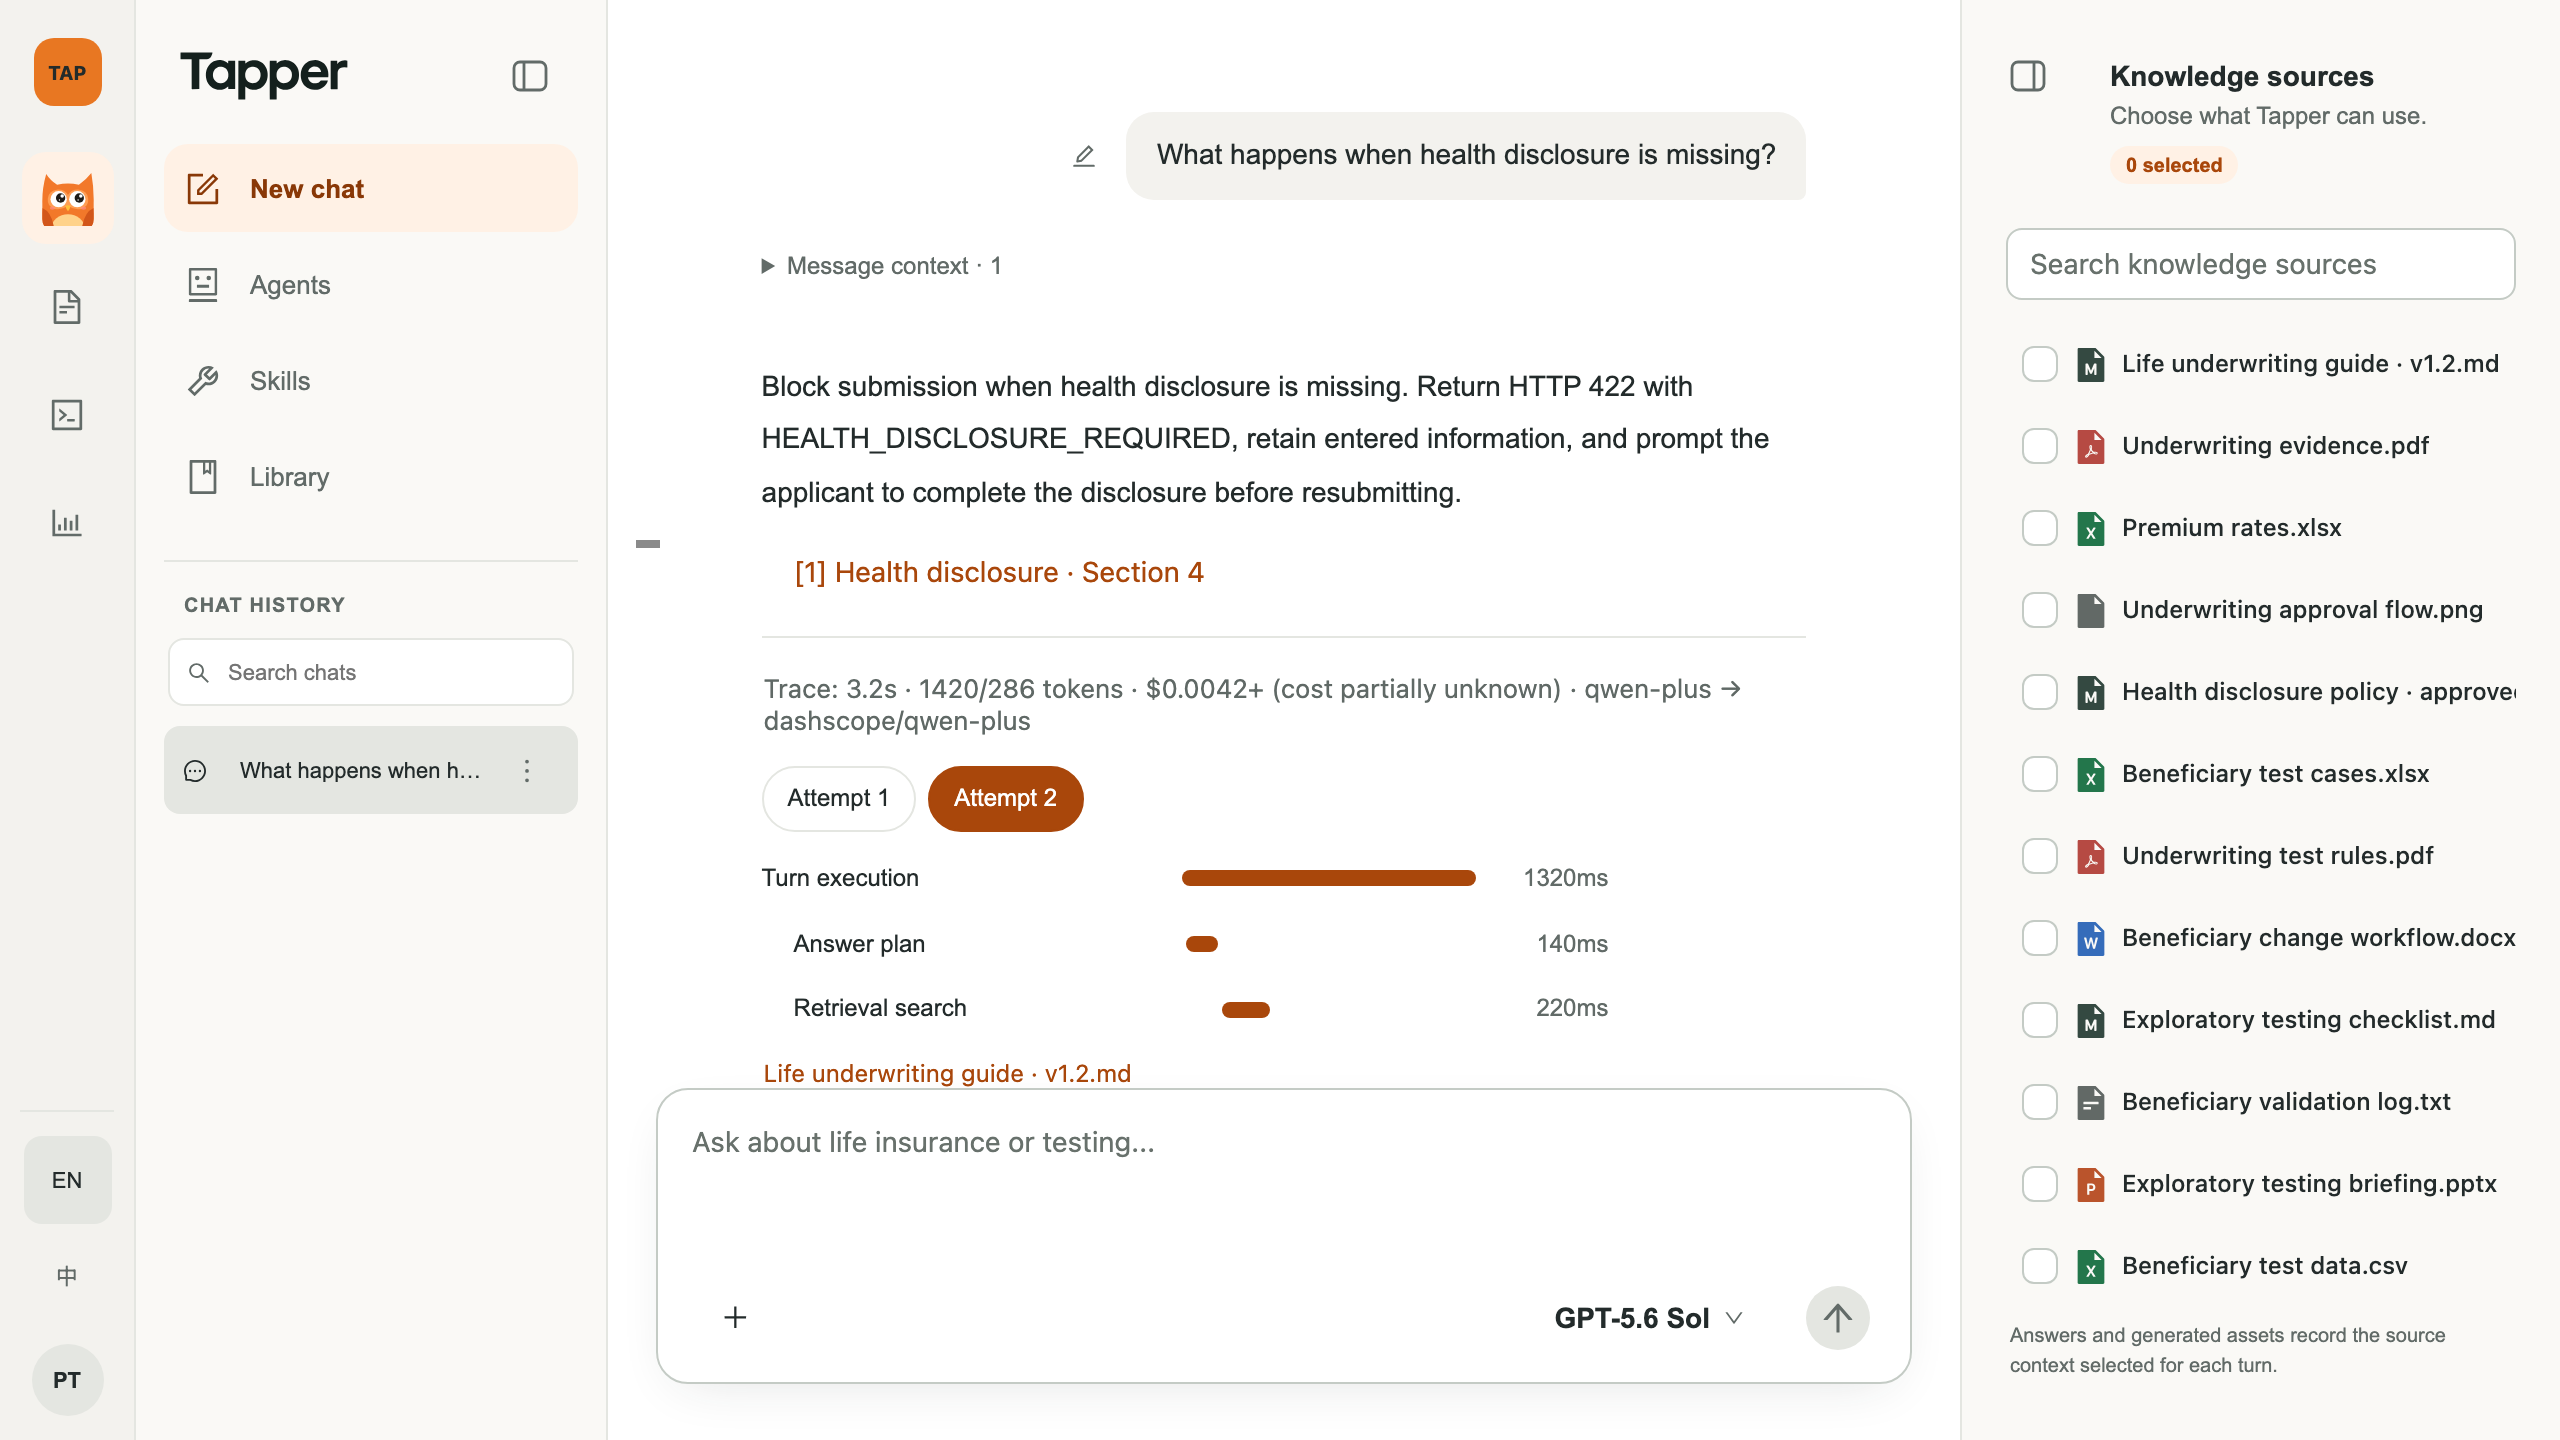
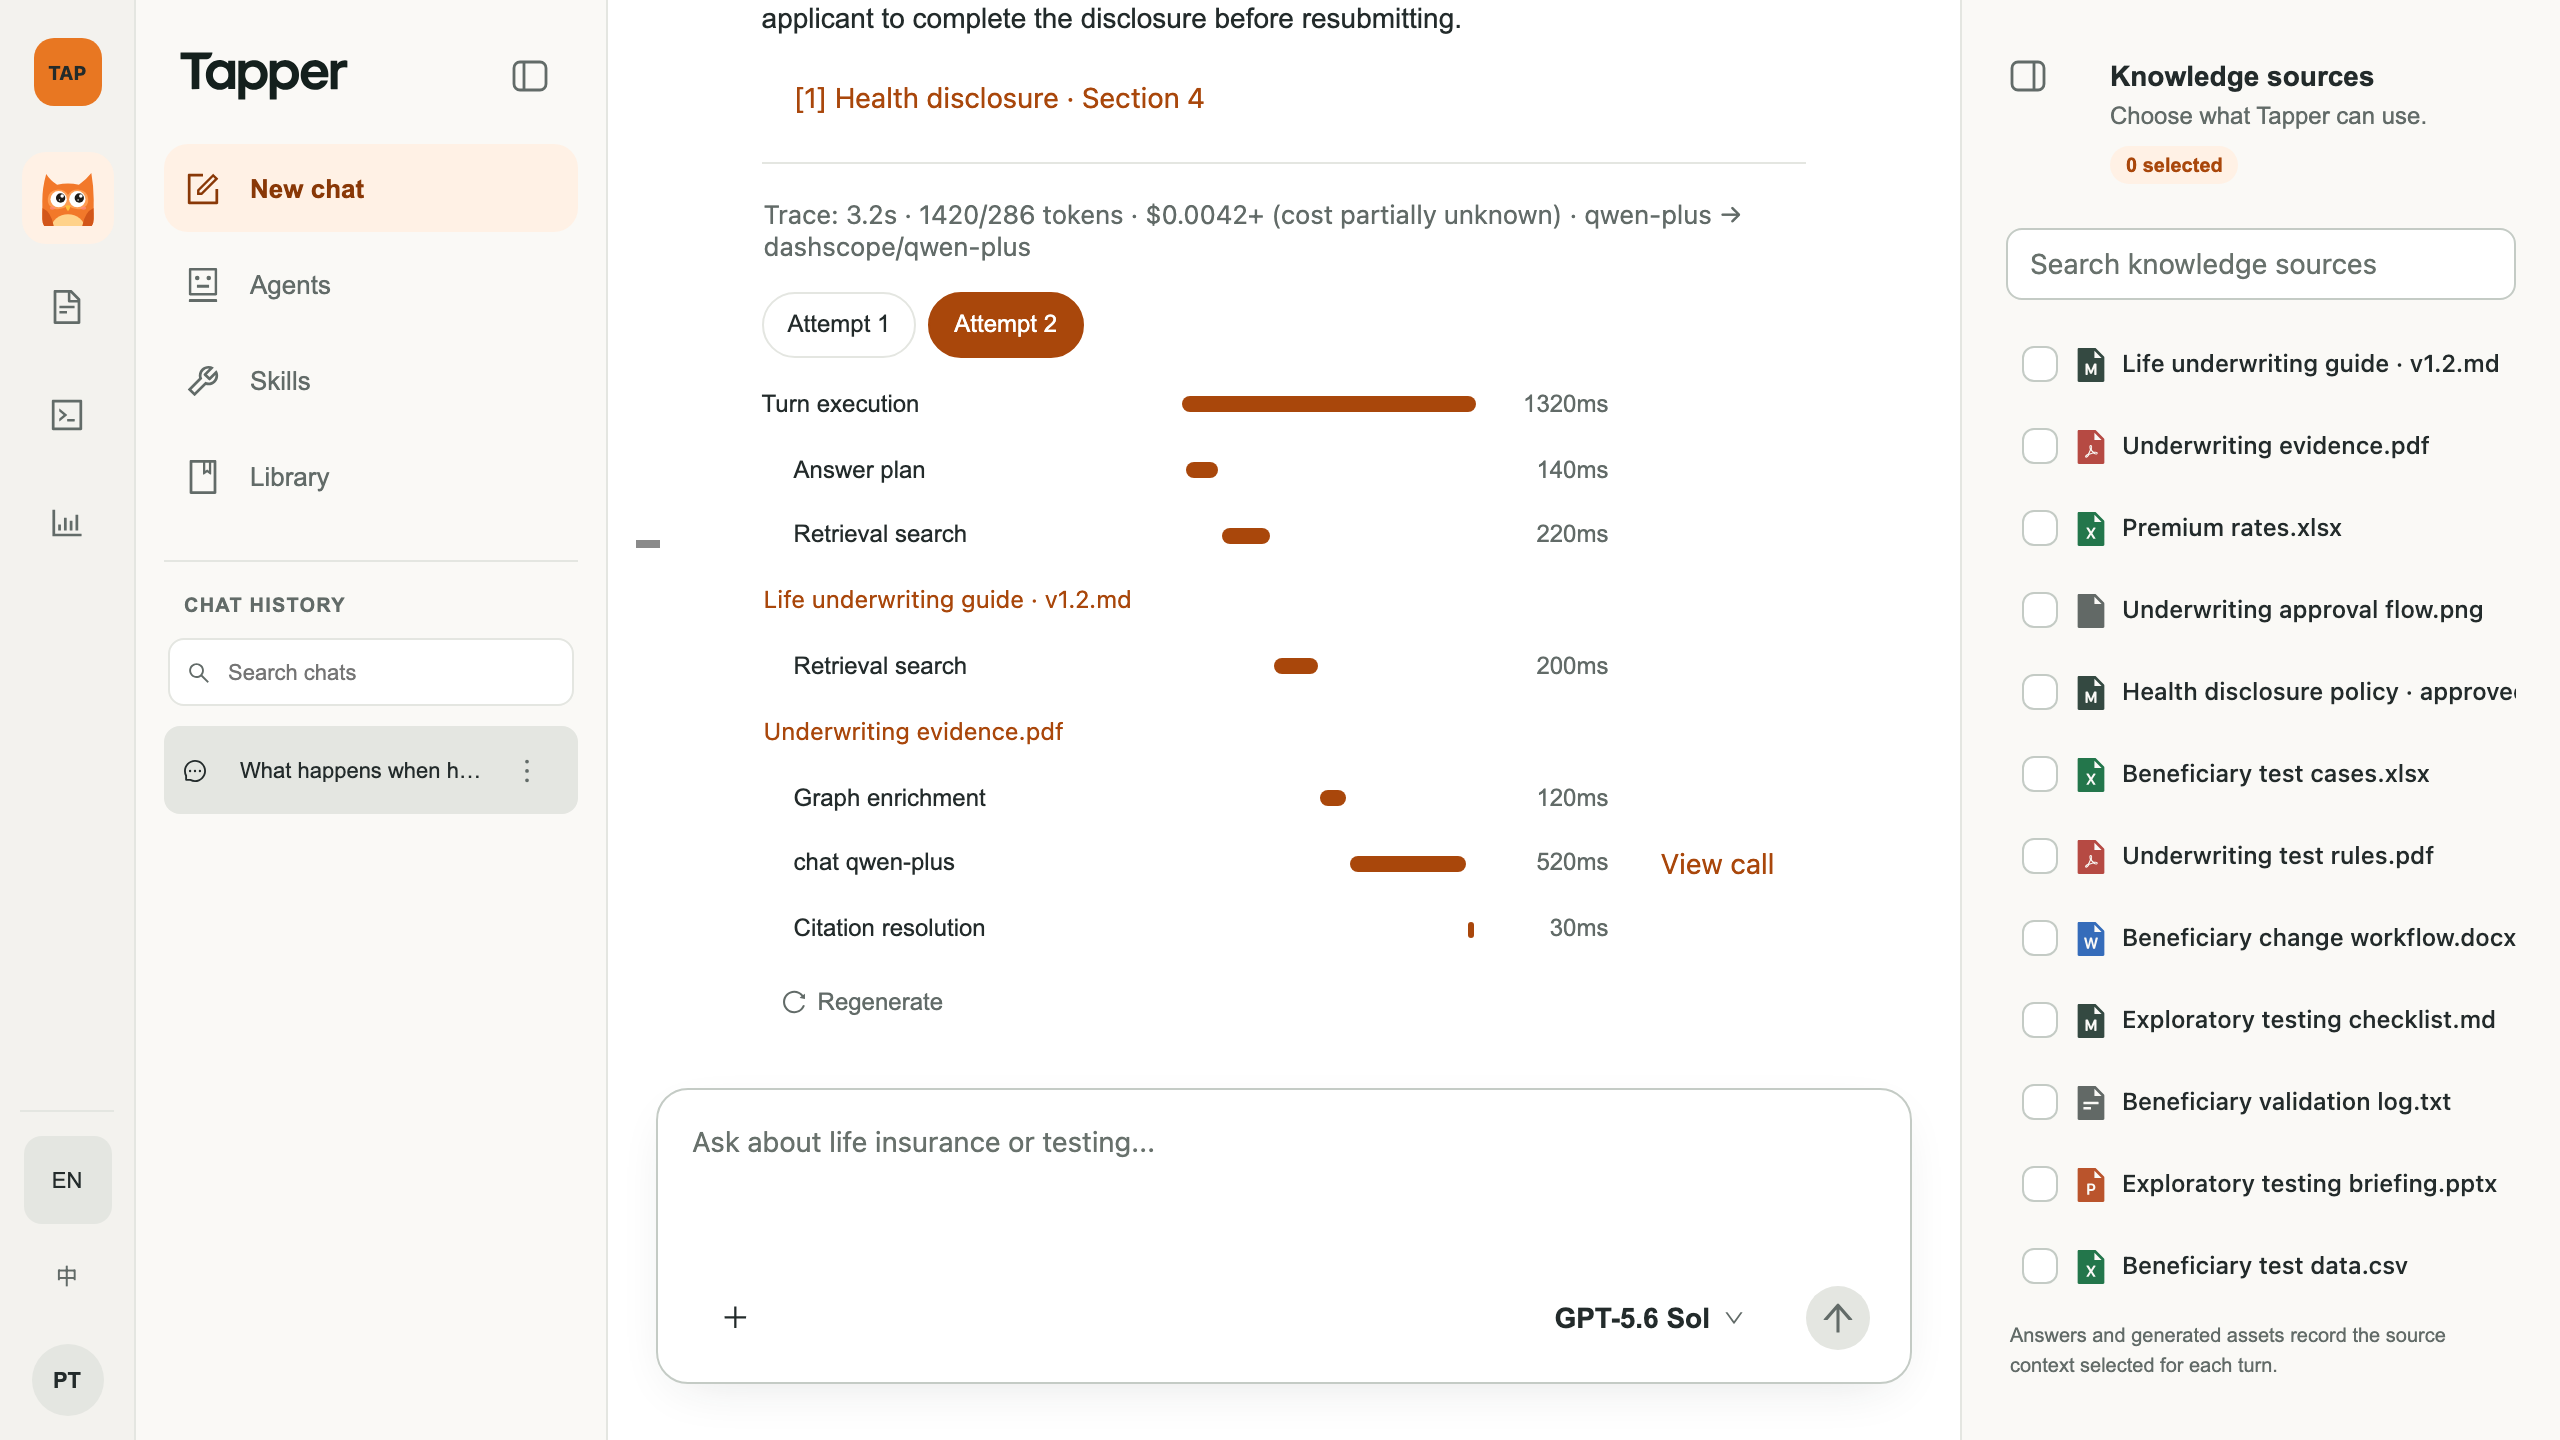
fix: add list semantics and recapture trace screenshots
Add role="list"/role="listitem" to the waterfall's <ul>/<li> so list
semantics survive the display:contents layout used for column
alignment. Recapture the drawer screenshot after its slide-in
transform settles (was caught mid-animation, clipped) and the
expanded-waterfall screenshot after scrolling the transcript so all
rows (graph.enrich, chat qwen-plus, citations.resolve) clear the
sticky composer.

diff --git a/apps/web/src/widgets/tap/prototype/AnswerTrace.tsx b/apps/web/src/widgets/tap/prototype/AnswerTrace.tsx
@@ -109,7 +109,7 @@ export function AnswerTrace({ trace }: { trace: SampleTrace }) {
               ))}
             </div>
           ) : null}
-          <ul className="tap-answer-trace-waterfall">
+          <ul className="tap-answer-trace-waterfall" role="list">
             {attemptSpans.map((span) => {
               const left = ((span.startOffsetMs - attemptStart) / attemptSpan) * 100;
               const width = Math.max(
@@ -119,6 +119,7 @@ export function AnswerTrace({ trace }: { trace: SampleTrace }) {
               return (
                 <li
                   key={span.spanId}
+                  role="listitem"
                   className={
                     span.status === "error"
                       ? "tap-trace-span tap-trace-span-error"
